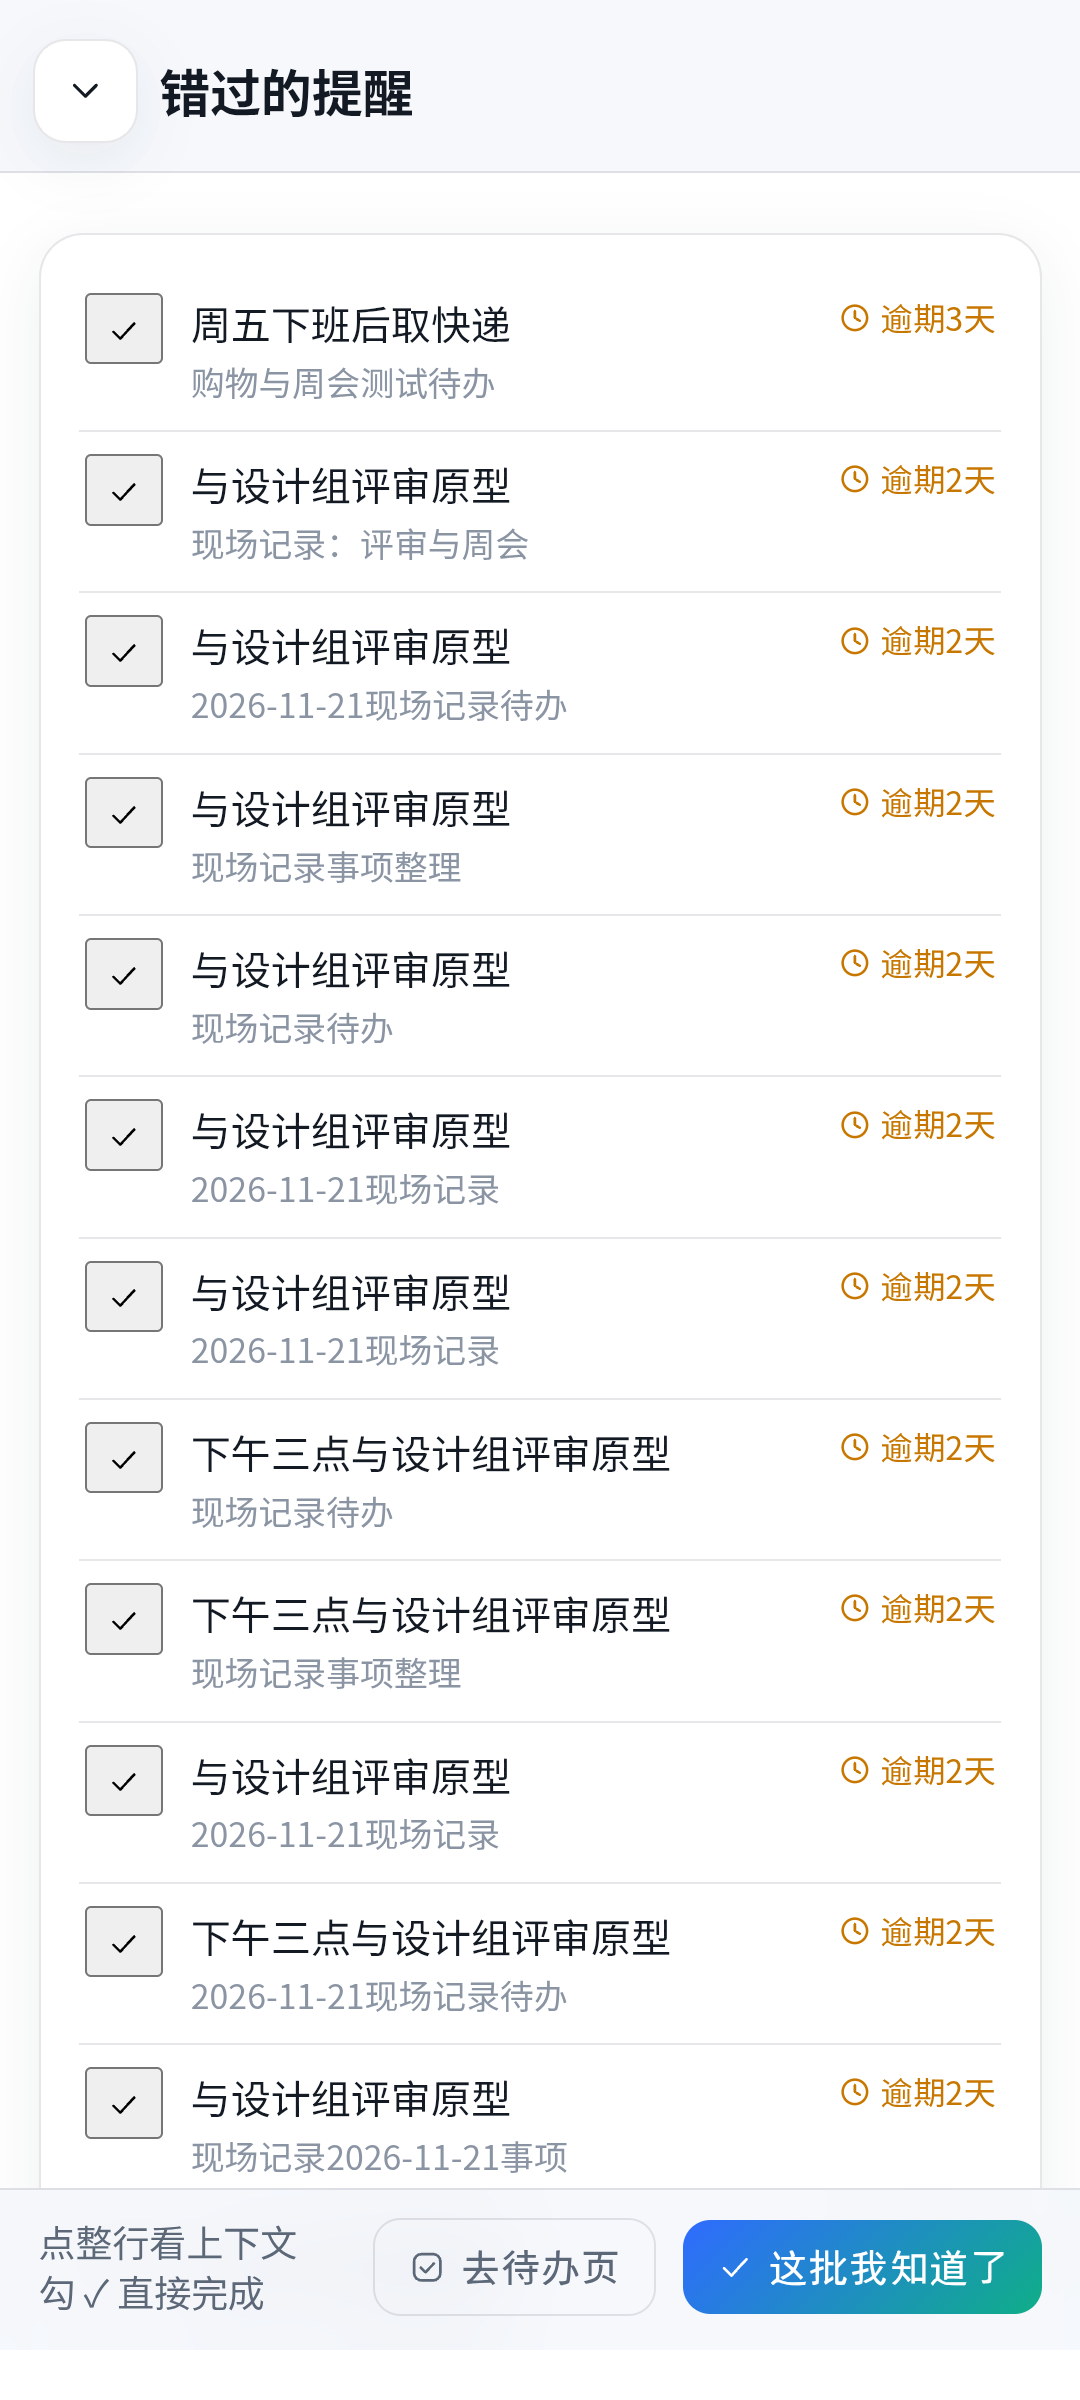
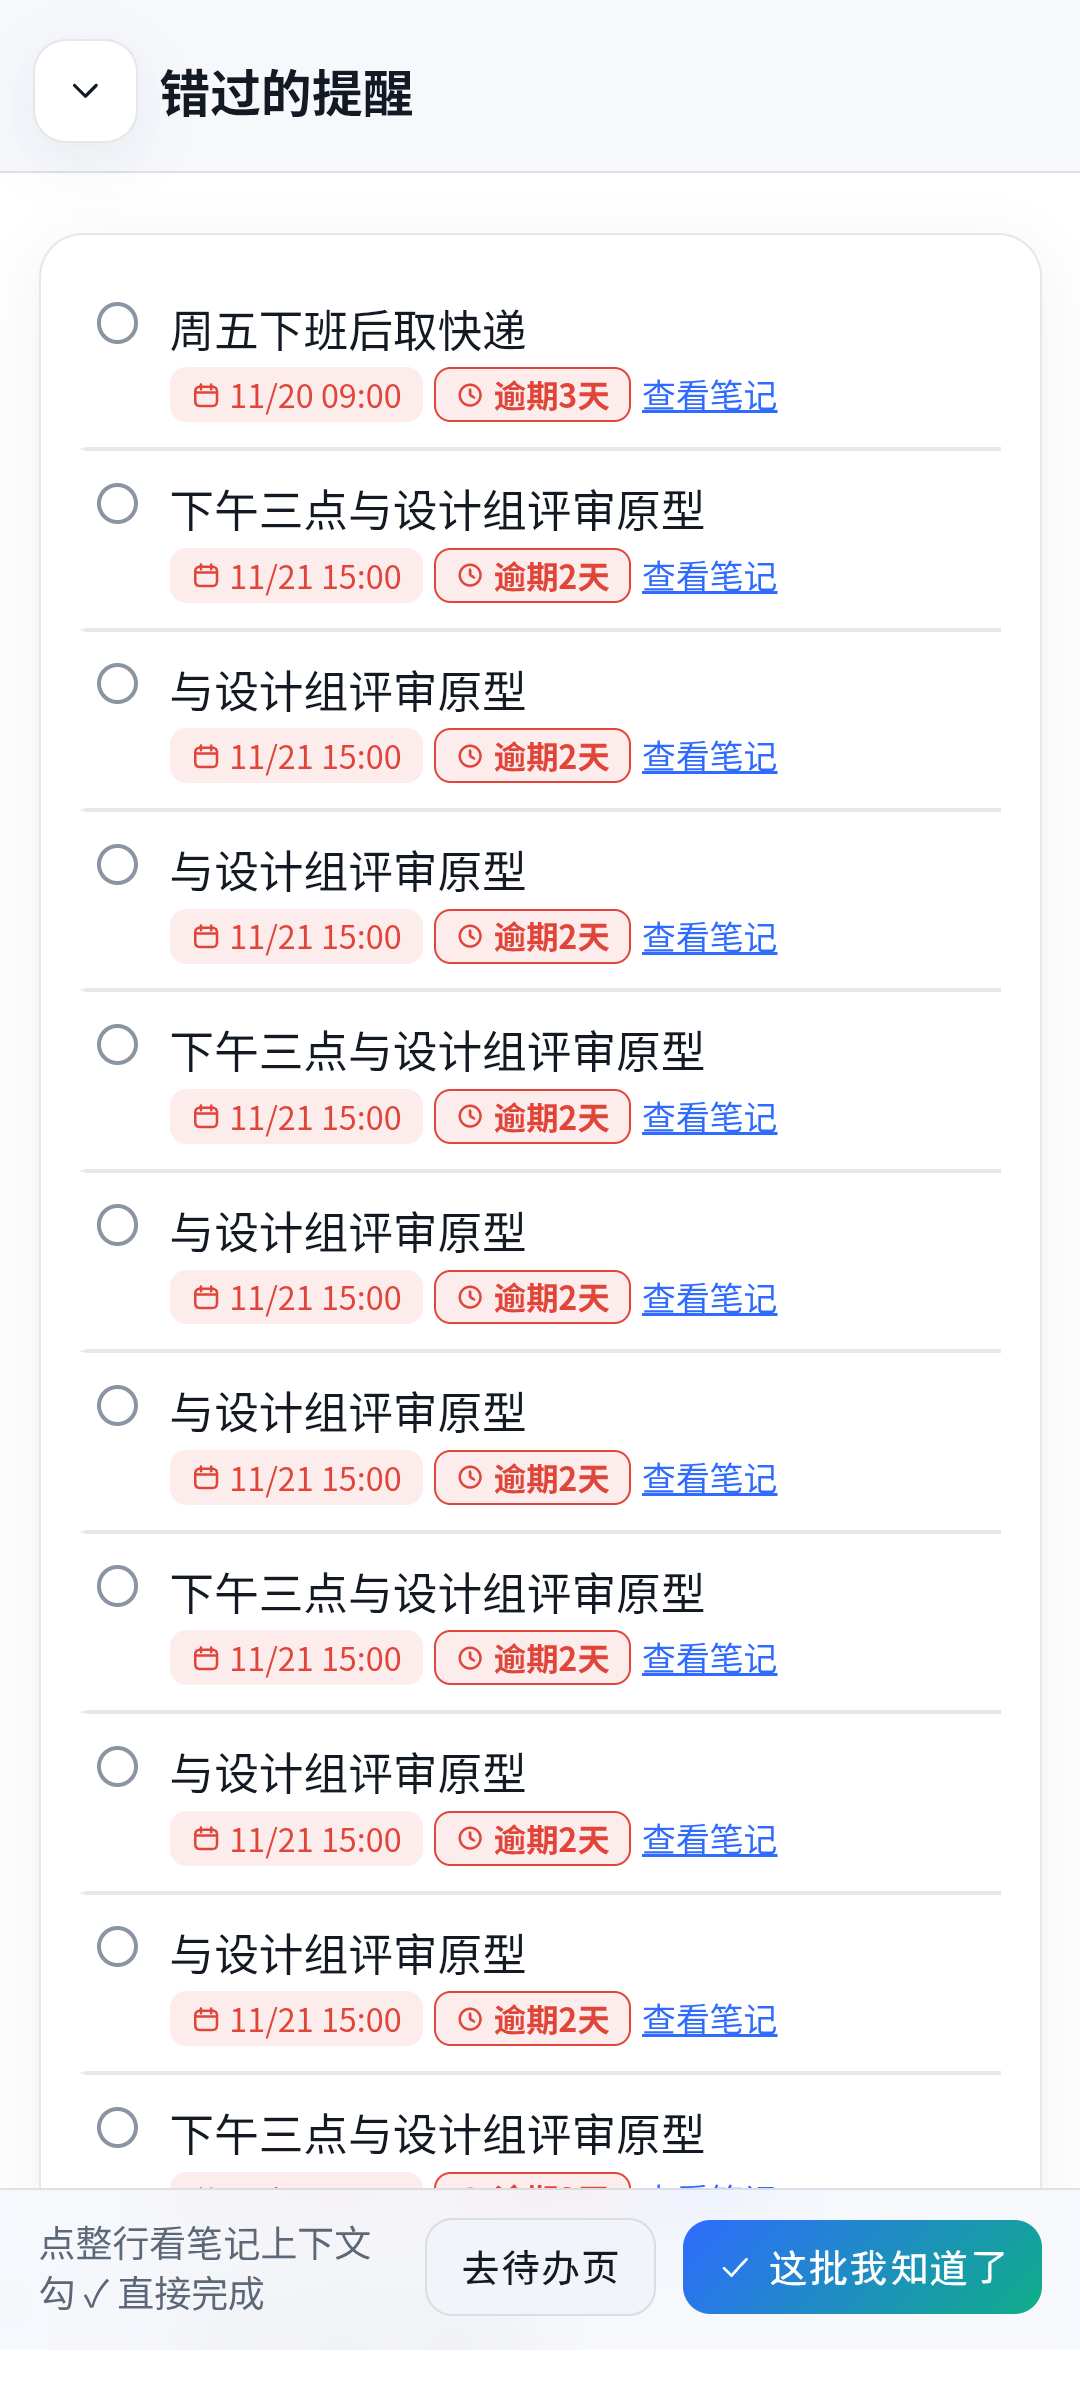
P12.1: 提醒面板点了没反应（我调了不存在的函数）
用户反馈三条，根因是同一个低级错误：
* 「去待办页」跳到笔记页 —— goTab() 不存在，真名 setTab()，而且它读全局 tab 不接参数，
  所以那句只是关掉面板，露出底下的笔记页。
* 点整行没反应 —— goNote() 不存在，真名 jump(nid)；顺手补 closeSheet()，
  跳笔记时面板要一起关掉。
* 勾 ✓ 没有动画，一闪就没 —— 原来直接打 API。现在整行复用待办页的
  .todo/.cb/.ttx 结构并调 toggle()：划线 → 原位淡出 → 从清单摘掉，和待办页一致。
* 顺带：missedSheet 里的 openSheet() 也不存在（真名 pageSheet()）。

签名测试只查"函数存在"，不查"调用点名字对不对"，所以这三条都没被拦住。
已加断言：面板里出现 goTab/goNote 直接 FAIL；test.sh 的 P8.5 改成真点击 ——
点整行断言 open{} 多一条且面板关闭，勾 ✓ 断言 120ms 内出现 justdone、
1.6s 后这条从清单消失。

验证：./test.sh --skip-build --vd → PASS（108 项 ok）；ui_sig_test 82 → 84。

diff --git a/go/ui.html b/go/ui.html
@@ -948,42 +948,45 @@ async function loadMissed(){
    横幅本身是"上次打开 app 之后到点的未完成待办"，服务端记的水位；点过「我知道了」
    之后水位已推进，同一批不会再来烦你（下一批要等新的到点提醒）。 */
 function missedSheet(){
-  var m = MISSED || {}, items = m.items || [];
-  var h = '';   // 标题已经在 sheet 头上了，别再重复一行
-  if(!items.length) h += emptyState('bell', '没有错过的提醒', '到点的待办会照常提醒');
-  else {
-    h += '<div class="card">' + items.map(function(t){
-      return '<div class="msrow" onclick="openTodoFromMissed(\''+esc(t.noteId||'')+'\',\''+esc(t.id||'')+'\')">'
-        + '<button class="msdone" onclick="missedDone(event,\''+esc(t.noteId||'')+'\',\''+esc(t.id||'')+'\')" '
-        + 'aria-label="标记完成" title="标记完成">'+ic('check','s')+'</button>'
-        + '<div class="mt"><div class="mtt">'+esc(t.text||'')+'</div>'
-        + '<div class="mts">'+esc(t.noteTitle||'')+'</div></div>'
-        + '<span class="mcd">'+ic('clock','s')+cdText(t.due)+'</span></div>';
-    }).join('') + '</div>';
-    if(m.count > items.length)
-      h += '<div style="font-size:11px;color:var(--dim2);margin-top:8px">只列出最早到点的 '+items.length+' 条</div>';
-    h += '<div class="pfoot"><div class="count">点整行看上下文<br>勾 ✓ 直接完成</div>'
-      + '<button class="btn gh" onclick="closeSheet();setTab(\'todos\')">'
-      + ic('check-square','s') + '去待办页</button>'
-      + '<button class="btn pri" onclick="missedDismiss()">'+ic('check','s')+'这批我知道了</button></div>';
+  var m = MISSED || S.missed;
+  if(!m) return;
+  var items = m.items || [];
+  var h = '';
+  if(!items.length){
+    h = emptyState('check-circle', '这批处理完了', '到点的待办会照常提醒');
+  } else {
+    // 行结构直接复用待办页的 .todo/.cb/.ttx，划线淡出动画和样式就都是那一套
+    h = '<div class="list card">';
+    items.forEach(function(t){
+      h += '<div class="todo msrow" onclick="closeSheet();jump(\''+t.nid+'\')">'
+        + '<div class="cb" onclick="missedDone(event,\''+t.nid+'\',\''+t.id+'\',this)">'+ic('check')+'</div>'
+        + '<div class="tx"><span class="ttx">'+esc(t.text)
+        + '<small><span class="due over">'+ic('calendar')+fmtTime(t.due)+'</span>'+cdChip(t)
+        + '<a href="#" onclick="jump(\''+t.nid+'\');return false">'+esc(t.ntitle||'查看笔记')+'</a></small>'
+        + '</span></div></div>';
+    });
+    h += '</div>';
   }
+  h += '<div class="pfoot"><div class="count">点整行看笔记上下文<br>勾 ✓ 直接完成</div>'
+    + '<button class="btn" onclick="missedGoTodos()">去待办页</button>'
+    + '<button class="btn pri" onclick="missedDismiss()">'+ic('check')+'这批我知道了</button></div>';
   pageSheet('错过的提醒', h);
 }
-/** 勾掉一条：真的标完成，并从这份清单里摘掉；清空了就顺手关掉面板。 */
-async function missedDone(ev, nid, tid){
-  if(ev && ev.stopPropagation) ev.stopPropagation();
-  var m = MISSED || {};
-  try{
-    await api('/api/todo', {action:'toggle', noteId:nid, todoId:tid});
-    m.items = (m.items || []).filter(function(t){ return t.id !== tid });
-    m.count = Math.max(0, (m.count || 1) - 1);
-    MISSED = m; S.missed = m;
-    render();
-    if(!m.items.length){ closeSheet(); toast('都处理完了'); return }
-    missedSheet();
-  }catch(e){ toast('操作失败') }
+function missedDone(ev, nid, tid, el){
+  ev.stopPropagation();
+  toggle(nid, tid, el);          // 复用待办页：划线 → 原位淡出 → 新位置高亮入场
+  setTimeout(function(){         // 动画跑完再把这条从清单里摘掉
+    if(!MISSED) return;
+    var n0 = (MISSED.items || []).length;
+    MISSED.items = (MISSED.items || []).filter(function(t){ return t.id !== tid });
+    MISSED.count = (MISSED.items || []).length;
+    if(S.missed) S.missed = MISSED;
+    if((MISSED.items || []).length === n0) return;
+    render();                 // 背后的横幅条数
+    if(MISSED.items.length) missedSheet(); else closeSheet();
+  }, 900);
 }
-/** 「这批我知道了」：待办一条不动，只是承认看过了 → 横幅消失（服务端水位已推进）。 */
+function missedGoTodos(){ closeSheet(); tab = 'todos'; setTab(true); }
 function missedDismiss(){
   MISSED = null;
   if(S) S.missed = null;

diff --git a/tools/ui_sig_test.js b/tools/ui_sig_test.js
@@ -562,9 +562,20 @@ if (!forcePaint) bad++;
 
 // 错过的提醒面板：只能看没法处理过（用户反馈），要有「完成」和「我知道了」
 const missedOps = /function missedDone\(/.test(src) && /function missedDismiss\(/.test(src)
-  && /这批我知道了/.test(src) && /class="msdone"/.test(src);
+  && /这批我知道了/.test(src) && /class="todo msrow"/.test(src);
 console.log((missedOps ? '  ok   ' : '  FAIL ') + '错过的提醒面板：每行可完成 + 「这批我知道了」');
 if (!missedOps) bad++;
+
+// 面板里的跳转必须用真存在的函数：goTab/goNote 不存在，点了没反应（用户反馈）
+const missedJump = /function missedGoTodos\(\)\{\s*closeSheet\(\); tab = 'todos'; setTab\(true\)/.test(src)
+  && /onclick="jump\(\\''\+t\.nid/.test(src) && !/function goTab\(/.test(src) && !/function goNote\(/.test(src);
+console.log((missedJump ? '  ok   ' : '  FAIL ') + '错过的提醒面板：跳转用真存在的函数（setTab / jump）');
+if (!missedJump) bad++;
+
+// 勾 ✓ 要复用待办页那套划线 + 淡出动画，不能静默改状态（用户反馈：看不出点到没有）
+const missedAnim = /function missedDone\(ev, nid, tid, el\)[\s\S]{0,240}toggle\(nid, tid, el\)/.test(src);
+console.log((missedAnim ? '  ok   ' : '  FAIL ') + '错过的提醒面板：勾 ✓ 复用待办页动画（划线 + 淡出）');
+if (!missedAnim) bad++;
 
 // 截图要实时：进程一起来就监听 MediaStore，截完图 1~2 秒进暂存区
 const javaApp = fs.readFileSync(path.join(root, 'src/dev/xduo/enote/EnoteApp.java'), 'utf8');

diff --git a/CHANGELOG.md b/CHANGELOG.md
@@ -79,6 +79,23 @@
   Go 只负责暂存/去重/忽略表/文件生命周期。合并笔记走新的 `kind=images`：N 个附件、OCR 文本
   用 `---` 拼接、**只调一次** LLM。
 
+### 修正（P12.1，提醒面板点了没反应 / 去待办页跳错页 / 勾选没动画）
+
+用户反馈：面板里「去待办页」跳到笔记页；点整行没反应；勾 ✓ 完成了但一闪就没，
+看不出点没点上。三条都是同一个低级错误 —— **我调了根本不存在的函数**：
+
+* `goTab('todos')` 不存在（真名 `setTab()`，而且它读全局 `tab`，不接参数），
+  所以「去待办页」只是关掉面板，露出底下的笔记页。
+* `goNote(nid)` 不存在（真名 `jump(nid)`），所以点整行静默失败。
+* `openSheet()` 不存在（真名 `pageSheet()`），整个面板第一次是渲染不出来的。
+* 勾 ✓ 是直接打 API 的，没有动画。现在整行复用待办页的 `.todo/.cb/.ttx` 结构并调
+  `toggle()`，划线 → 原位淡出 → 从清单里摘掉，和待办页一模一样。
+
+教训：`ui_sig_test` 只查"函数存在"，不查"调用点的名字对不对"。已加一条断言：
+面板里只能出现 `setTab`/`jump`/`pageSheet` 这些真存在的名字，出现 `goTab`/`goNote` 直接 FAIL。
+`test.sh` 的 P8.5 也升级成真点击：点整行断言 `open{}` 里多了一条、面板关掉；
+勾 ✓ 断言 120ms 内出现 `justdone`（划线动画）、1.6s 后这条从清单消失。
+
 ### 修正（P12，用户反馈三条：横幅不刷新 / 提醒面板没法操作 / 截图要重进两次）
 
 **1. 删光剪贴板后首页还提示「剪贴板暂存 N 条」**

diff --git a/README.md b/README.md
@@ -230,7 +230,7 @@ su --mount-master -c 'am start -n dev.xduo.enote/.MainActivity --es hook jseval 
 
 | 横幅 | 出现条件 | 怎么处理 |
 |---|---|---|
-| 错过的提醒 | 上次打开之后到点、且未完成的待办 | 点整行看笔记上下文；每行 ✓ 直接完成；底部「这批我知道了」只清横幅、待办不动 |
+| 错过的提醒 | 上次打开之后到点、且未完成的待办 | 点整行跳到那条笔记并定位；每行 ✓ 直接完成（和待办页一样的划线动画）；底部「这批我知道了」只清横幅、待办不动；「去待办页」切到待办页 |
 | 新截图 | 监控文件夹里扫到没处理过的截图 | 点进去勾选 → 创建笔记（1 张时只有一个按钮） |
 | 剪贴板暂存 | 前台复制时被系统拒读、或手动收进来的内容 | 点进去勾选 → 一键解析 / 原样存 / 删除 |
 

diff --git a/plan.md b/plan.md
@@ -540,3 +540,9 @@ Java 侧新增：`ClipWatchService`（无障碍服务，后台读剪贴板 + 常
 * **截图要重进两次**：`EnoteApp` 注册 MediaStore `ContentObserver`（去抖 1.2s），
   截图落盘就扫，不靠 `onResume`。
 * 教训：`refresh()` 不 await `searchNow()`，jseval 断言必须轮询等 DOM，不能 await 完就读。
+
+## P12.1（提醒面板点了没反应，已完成）
+* 三条都是"调了不存在的函数"：`goTab`/`goNote`/`openSheet` 都不存在，真名是
+  `setTab`（读全局 tab，不接参数）/`jump`/`pageSheet`。签名测试只查函数存在，不查调用点。
+* 勾 ✓ 改成复用待办页的 `.todo/.cb/.ttx` + `toggle()`，划线淡出动画一致。
+* 测试改成真点击 + 断言动画 class，不再只查 DOM 结构。
